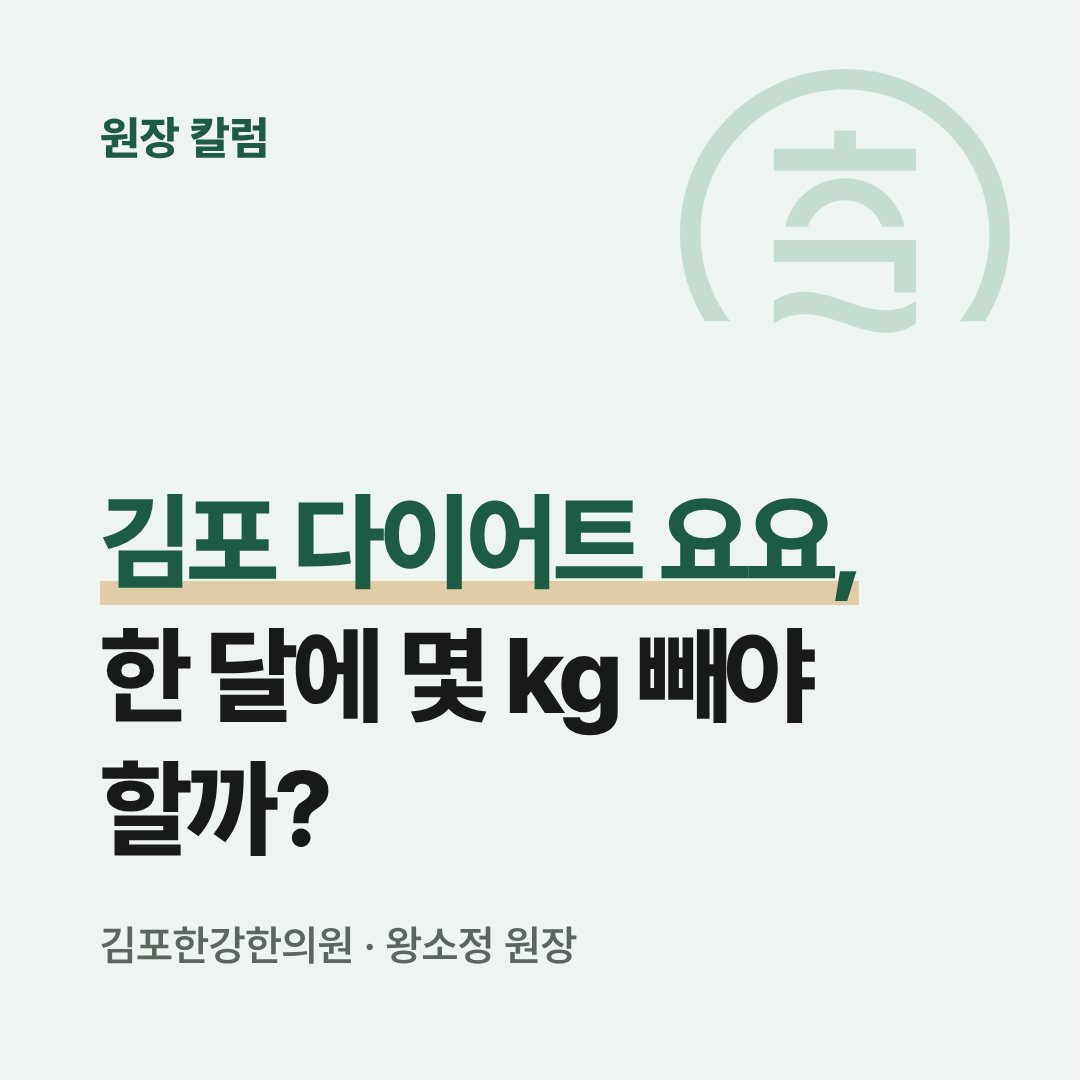
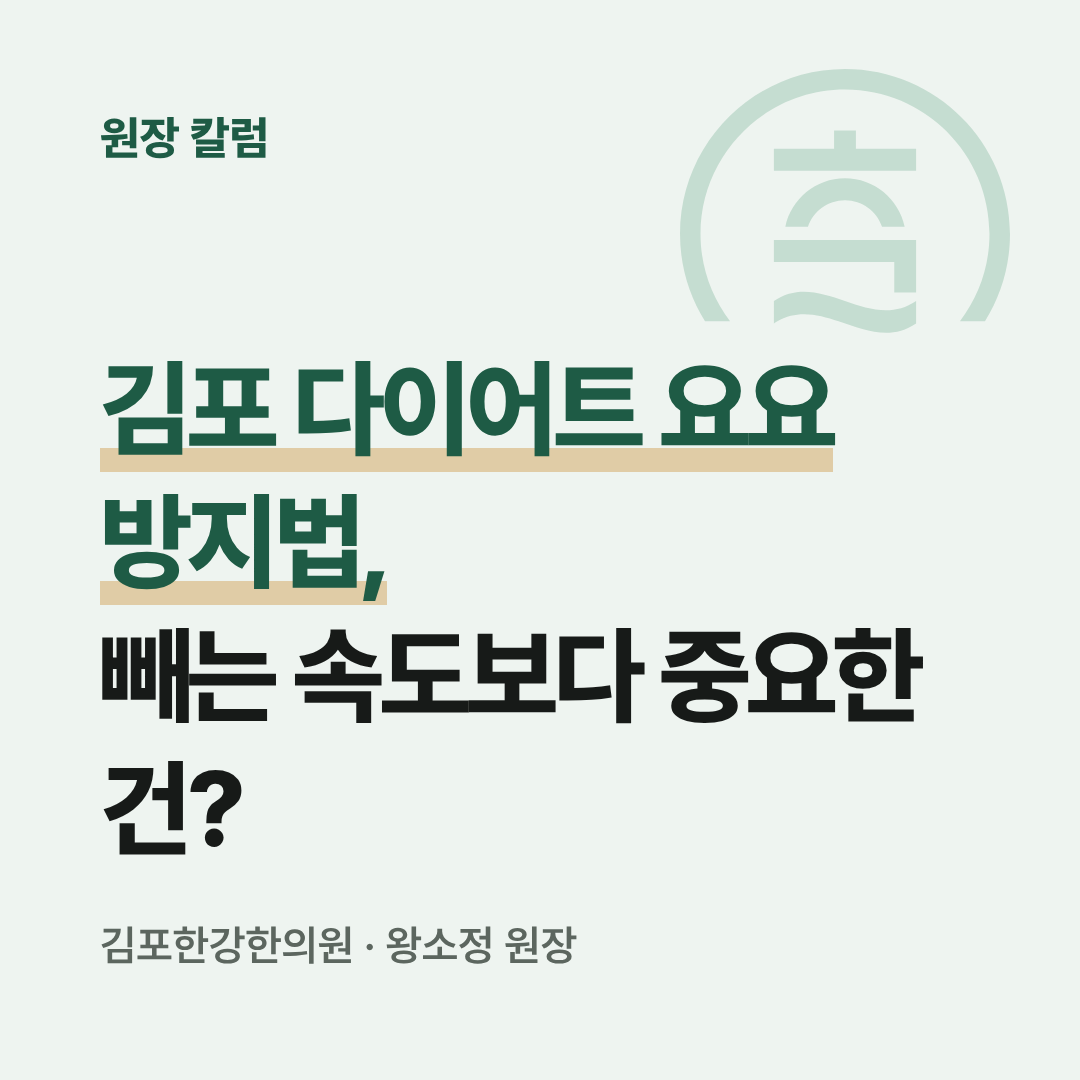
요요 칼럼 제목을 「요요 방지법」으로 바꿈
원장님 의견: 「한 달에 몇 kg」보다 「요요 방지하는 방법」이 더 궁금해서
눌러 보게 된다. 제목·검색어·주소(diet-yoyo-prevention)를 바꾸고, 결론과
3줄 요약도 방지법이 먼저 오도록 순서를 고쳤다. 블로그 제목·주소·대표 이미지도
함께 맞췄다.

Claude-Session: https://claude.ai/code/session_014or5Dz7NEA45EzVUvuCBub

Changed region(s): [[0.0917, 0.3361, 0.8556, 0.7028], [0.0917, 0.7028, 0.3056, 0.7944]]

diff --git a/src/content/column/questions.ts b/src/content/column/questions.ts
@@ -1347,26 +1347,26 @@ const calcificTendinitis: Column = {
 };
 
 const dietYoyoPace: Column = {
-  slug: "diet-yoyo-weight-loss-pace",
+  slug: "diet-yoyo-prevention",
   authorKey: "wang",
-  title: "다이어트 요요, 한 달에 몇 kg가 적당한가요?",
-  question: "다이어트 요요 감량 속도",
+  title: "다이어트 요요 방지법, 감량 속도보다 중요한 것은?",
+  question: "다이어트 요요 방지 방법",
   summary:
-    "한 달에 1~2kg 안팎이면 무리 없는 속도입니다. 요요는 속도보다 줄인 뒤 유지하는 시기에 더 크게 갈립니다.",
+    "요요는 빼는 속도보다 줄인 뒤 몇 달을 어떻게 보내느냐에서 더 크게 갈립니다. 속도는 한 달 1~2kg 안팎이면 충분합니다.",
   date: "2026-11-25",
   symptomSlugs: ["diet"],
   answer:
-    "대한비만학회는 6개월 동안 처음 체중의 5~10%를 줄이는 것을 1차 목표로 권하며, 한 달로 치면 대개 1~2kg 안팎의 속도입니다. 요요는 감량 속도 자체보다 줄인 뒤 몸이 새 체중에 익숙해지는 유지 기간을 어떻게 보내느냐에 더 크게 좌우됩니다.",
+    "다이어트 요요를 막는 데는 감량 속도보다, 줄인 뒤 몸이 새 체중에 익숙해질 때까지 몇 달의 유지 기간을 따로 두고 관리하는 것이 더 중요합니다. 속도는 대한비만학회가 권하는 6개월에 처음 체중의 5~10%, 한 달로 치면 대개 1~2kg 안팎이면 무리가 없습니다.",
   body: [
     { t: "p", text:
       "「빨리 빼면 요요가 온다」는 말, 많이 들어 보셨을 겁니다. " +
       "그런데 **사실은 속도만으로 요요가 정해지지는 않습니다.** " +
       "얼마나 빨리 빼느냐보다, 무리 없이 지킬 수 있는 방식인지와 줄인 뒤 어떻게 지내느냐가 더 중요합니다. " +
-      "진료실에서 자주 받는 질문이라 기준이 되는 숫자와 함께 정리해 드립니다." },
+      "요요를 막는 방법을 연구 결과와 함께 정리해 드립니다." },
     { t: "summary", title: "3줄 요약", items: [
-      "6개월에 처음 체중의 **5~10%**, 한 달로 치면 대개 1~2kg 안팎이 무리 없는 속도입니다.",
       "연구에서 요요는 ==감량 속도보다 줄인 뒤 유지하는 시기==에 더 크게 갈렸습니다.",
-      "그래서 감량 계획에 **유지 기간까지 처음부터 함께** 잡아 두는 것이 좋습니다.",
+      "그래서 요요를 막으려면 감량 계획에 **유지 기간까지 처음부터 함께** 잡아 두는 것이 좋습니다.",
+      "속도는 6개월에 처음 체중의 **5~10%**, 한 달로 치면 대개 1~2kg 안팎이면 충분합니다.",
     ]},
 
     { t: "h", text: "한 달에 몇 kg가 적당한가요?" },
@@ -1421,7 +1421,7 @@ const dietYoyoPace: Column = {
     { t: "p", text:
       "대개 두세 가지가 겹쳐 있어서, 문진과 혀·배의 진찰로 ==지금 어느 쪽이 큰지 먼저 가려 보는 것==이 출발점입니다." },
 
-    { t: "h", text: "줄인 뒤에는 어떻게 지내면 되나요?" },
+    { t: "h", text: "요요를 막으려면 줄인 뒤 어떻게 지내야 하나요?" },
     { t: "ol", items: [
       "목표에 닿은 뒤에도 **몇 달은 유지 기간**으로 잡고, 식사량을 조금씩만 늘려 주세요.",
       "일주일에 한두 번 같은 시간에 체중을 재 보세요. 조금 오를 때 일찍 알아차리면 식사를 다시 맞추기 쉽습니다.",

diff --git a/tools/column/topics.md b/tools/column/topics.md
@@ -92,7 +92,7 @@
 | [x] | 2026-11-18 (수) | B | 이진희 | 석회성 건염, 갑자기 더 아픈 건 나빠진 건가요? | 석회성 건염 통증 심해짐 |
 | [ ] | 2026-11-20 (금) | J | 왕소정 | 만성피로, 자도 개운하지 않은 이유는? | 자도 피곤한 이유 |
 | [ ] | 2026-11-23 (월) | E | 이진희 | 무릎 안쪽 통증, 거위발건염과 관절염 차이는? | 무릎 안쪽 통증 |
-| [x] | 2026-11-25 (수) | K | 왕소정 | 다이어트 요요, 한 달에 몇 kg가 적당한가요? | 다이어트 요요 감량 속도 |
+| [x] | 2026-11-25 (수) | K | 왕소정 | 다이어트 요요 방지법, 감량 속도보다 중요한 것은? | 다이어트 요요 방지 방법 |
 | [ ] | 2026-11-27 (금) | C | 이진희 | 이상근증후군, 허리디스크와 어떻게 구분하나요? | 엉덩이 통증 다리 저림 |
 | [ ] | 2026-11-30 (월) | M | 왕소정 | 한약 양약 같이 복용, 혈압약·당뇨약은 괜찮나요? | 한약 양약 같이 복용 |
 | [ ] | 2026-12-02 (수) | A | 이진희 | 테니스엘보 초음파, 무엇이 보이고 어떻게 하나요? | 테니스엘보 초음파 |
